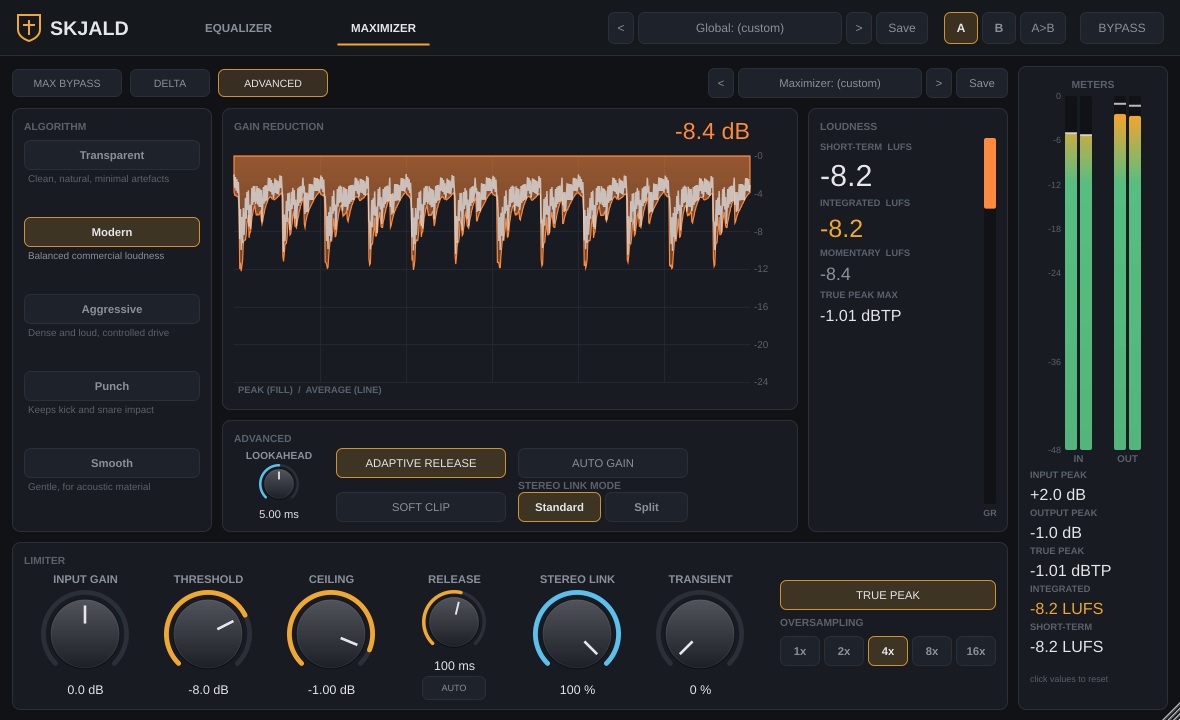
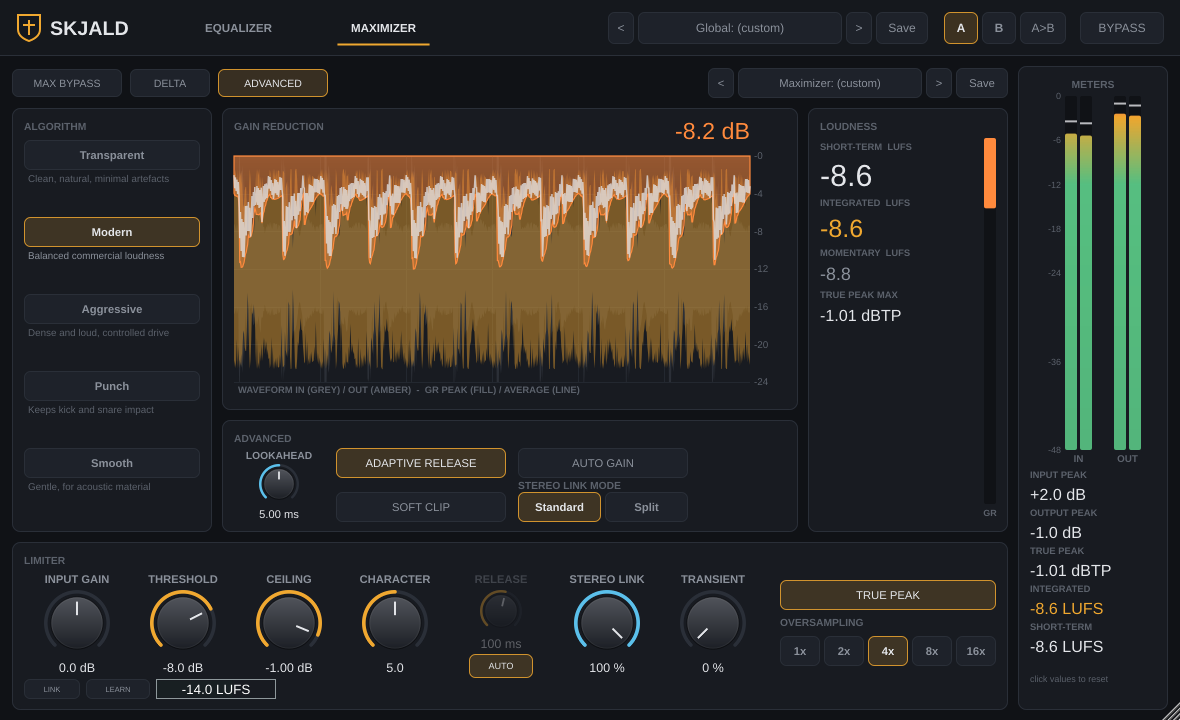
Maximizer: ARC-style auto release (default on), scrolling waveform display, fixes
Claude-Session: https://claude.ai/code/session_018RdDbPC5mLvRAxPkkbgNdd

diff --git a/Source/UI/Maximizer/MaximizerTab.cpp b/Source/UI/Maximizer/MaximizerTab.cpp
@@ -21,16 +21,19 @@ void GRHistoryDisplay::refresh (double dt)
         {
             const auto& pt = scratch[(size_t) i];
             colPeak = juce::jmax (colPeak, pt.peakDb);
+            colIn = juce::jmax (colIn, pt.inputPeak);
+            colOut = juce::jmax (colOut, pt.outputPeak);
             avgSum += (double) pt.averageDb * pt.numSamples;
             accumulated += pt.numSamples;
             currentPeak = pt.peakDb;
             while (accumulated >= samplesPerColumn)
             {
-                columns[(size_t) writePos] = { colPeak, (float) (avgSum / juce::jmax (1.0, accumulated)) };
+                columns[(size_t) writePos] = { colPeak, (float) (avgSum / juce::jmax (1.0, accumulated)), colIn, colOut };
                 writePos = (writePos + 1) % kColumns;
                 accumulated -= samplesPerColumn;
                 avgSum = 0.0;
                 colPeak = 0.0f;
+                colIn = colOut = 0.0f;
             }
         }
     }
@@ -73,6 +76,35 @@ void GRHistoryDisplay::paint (juce::Graphics& g)
         g.drawVerticalLine ((int) x, area.getY(), area.getBottom());
     }
 
+    // scrolling waveform behind the gain-reduction trace (as in iZotope's Maximizer): the signal going in
+    // (grey) and coming out (accent), as mirrored peak envelopes, 0 dBFS = full height
+    {
+        const float mid = area.getCentreY(), half = area.getHeight() * 0.5f;
+        auto envelope = [&] (bool output)
+        {
+            juce::Path p;
+            p.startNewSubPath (area.getX(), mid);
+            for (int i = 0; i < kColumns; ++i)
+            {
+                const auto& c = columns[(size_t) ((writePos + i) % kColumns)];
+                const float x = area.getX() + area.getWidth() * (float) i / (float) (kColumns - 1);
+                p.lineTo (x, mid - half * juce::jlimit (0.0f, 1.0f, output ? c.outPeak : c.inPeak));
+            }
+            for (int i = kColumns - 1; i >= 0; --i)
+            {
+                const auto& c = columns[(size_t) ((writePos + i) % kColumns)];
+                const float x = area.getX() + area.getWidth() * (float) i / (float) (kColumns - 1);
+                p.lineTo (x, mid + half * juce::jlimit (0.0f, 1.0f, output ? c.outPeak : c.inPeak));
+            }
+            p.closeSubPath();
+            return p;
+        };
+        g.setColour (textFaint.withAlpha (0.30f));
+        g.fillPath (envelope (false));
+        g.setColour (accent.withAlpha (0.45f));
+        g.fillPath (envelope (true));
+    }
+
     // history (newest on the right)
     juce::Path peakPath, avgPath;
     peakPath.startNewSubPath (area.getX(), area.getY());
@@ -103,7 +135,7 @@ void GRHistoryDisplay::paint (juce::Graphics& g)
     g.drawText ((displayPeak > 0.05f ? "-" : "") + juce::String (displayPeak, 1) + " dB", ro, juce::Justification::centredRight);
     g.setFont (font (10.5f, true));
     g.setColour (textFaint);
-    g.drawText ("PEAK (FILL)  /  AVERAGE (LINE)", getLocalBounds().reduced (16, 12).removeFromBottom (16), juce::Justification::centredLeft);
+    g.drawText ("WAVEFORM IN (GREY) / OUT (AMBER)  -  GR PEAK (FILL) / AVERAGE (LINE)", getLocalBounds().reduced (16, 12).removeFromBottom (16), juce::Justification::centredLeft);
 }
 
 // ---- LoudnessPanel ----------------------------------------------------------------------
@@ -220,7 +252,6 @@ MaximizerTab::MaximizerTab (SkjaldAudioProcessor& p)
     thresholdLink.setTooltip ("Link: moving the threshold moves the ceiling by the same amount");
     learnButton.setTooltip ("Learn Threshold: press, play the loudest part, press again. Sets the threshold for the target loudness");
     targetSlider.setSliderStyle (juce::Slider::LinearBar);
-    targetSlider.setTextValueSuffix (" LUFS");
     targetSlider.setTooltip ("Target loudness (LUFS) used by Learn");
     targetAttachment = std::make_unique<APVTS::SliderAttachment> (p.getState(), params::targetLufs, targetSlider);
 
@@ -380,6 +411,8 @@ void MaximizerTab::refresh (double dt)
 {
     grDisplay.refresh (dt);
     loudness.refresh (dt);
+    // with Auto Release the time is chosen by the limiter: dim the manual knob
+    release.setAlpha (processor.getState().getRawParameterValue (params::autoRelease)->load() > 0.5f ? 0.35f : 1.0f);
     presetBrowser.refresh();
 }
 

diff --git a/Source/DSP/Maximizer/LimiterCore.cpp b/Source/DSP/Maximizer/LimiterCore.cpp
@@ -66,7 +66,7 @@ void LimiterCore::reset() noexcept
         if (useDetector)
             c.detector.reset();
         c.samplePeakAlign.reset();
-        c.release1 = c.release2 = c.lastHeld = 1.0f;
+        c.release1 = c.release2 = c.lastHeld = c.arcBase = 1.0f;
     }
     ceilingAlign.reset (1.0f);
     headroomToDetector.reset (1.0f);
@@ -151,6 +151,12 @@ void LimiterCore::updateControl (const CoreSettings& s) noexcept
     const double tau2 = s.releaseStages >= 2 ? tau * 0.6 : lf * tau * 0.6;
     releaseCoeff1 = (float) onePoleCoeff (tau1, osRate);
     releaseCoeff2 = (float) onePoleCoeff (tau2, osRate);
+    arcActive = s.arcBaseReleaseMs > 0.0f;
+    if (arcActive)
+    {
+        arcAttackCoeff = (float) onePoleCoeff (std::max (1.0f, s.arcBaseAttackMs) * 0.001, osRate);
+        arcReleaseCoeff = (float) onePoleCoeff (s.arcBaseReleaseMs * 0.001, osRate);
+    }
 
     // Bounded clipping is audible on sustained material and harmless on isolated peaks: shrink
     // the allowed overshoot when the demand for gain reduction is sustained.
@@ -321,7 +327,10 @@ void LimiterCore::process (float* const* io, int numChannels, int numSamples, co
             // Each stage stays <= its input, so the envelope never exceeds the held minimum.
             st.release1 = held < st.release1 ? held : held + (st.release1 - held) * releaseCoeff1;
             st.release2 = st.release1 < st.release2 ? st.release1 : st.release1 + (st.release2 - st.release1) * releaseCoeff2;
-            const float env = st.release2;
+            // slow base envelope (smoothed towards the held gain both ways, so it tracks the average
+            // reduction); the applied envelope is never above the fast release, so the ceiling holds
+            st.arcBase = held + (st.arcBase - held) * (held < st.arcBase ? arcAttackCoeff : arcReleaseCoeff);
+            const float env = arcActive ? std::min (st.release2, st.arcBase) : st.release2;
             intervalMinEnv = std::min (intervalMinEnv, env);
 
             if (boxesMoving)

diff --git a/Source/DSP/Maximizer/LimiterCore.h b/Source/DSP/Maximizer/LimiterCore.h
@@ -37,6 +37,14 @@ struct CoreSettings
     // bass, the release is stretched and floored so the gain cannot follow the bass waveform.
     float lfReleaseFactor = 2.5f;
     float lfReleaseFloorMs = 60.0f;
+
+    // Auto release (ARC style, after Waves): besides the fast release envelope there is a slow "base"
+    // envelope that follows the average gain reduction (the RMS-like, sustained part). The gain is the
+    // lower of the two, so a peak that goes beyond the sustained reduction recovers quickly *down to
+    // the base*, while the base itself moves slowly. Sparse peaks leave the base near 0 dB (fast, clean
+    // recovery); dense material keeps a steady base (no pumping). 0 disables the base envelope.
+    float arcBaseAttackMs = 0.0f;
+    float arcBaseReleaseMs = 0.0f;
 };
 
 /** Feed-forward lookahead peak limiter that runs at the oversampled rate.
@@ -110,7 +118,7 @@ private:
         TruePeakDetector detector;  // only used when the oversampling factor is < 8
         DelayLine<float> samplePeakAlign;
         std::vector<float> peaks;
-        float release1 = 1.0f, release2 = 1.0f, lastHeld = 1.0f;
+        float release1 = 1.0f, release2 = 1.0f, lastHeld = 1.0f, arcBase = 1.0f;
     };
     std::array<Channel, kMaxChannels> ch;
     int ringSize = 1;
@@ -128,7 +136,8 @@ private:
     float clipScale = 1.0f;               // shrinks the clip depth under sustained heavy limiting
 
     // control-rate state
-    float releaseCoeff1 = 0.999f, releaseCoeff2 = 0.999f;
+    float releaseCoeff1 = 0.999f, releaseCoeff2 = 0.999f, arcAttackCoeff = 0.0f, arcReleaseCoeff = 0.0f;
+    bool arcActive = false;
     float intervalMinEnv = 1.0f, intervalMinHeld = 1.0f;
     double demandAverageDb = 0.0, avgCoeff = 0.0;
 

diff --git a/Tests/DSP/MaximizerFeatureTests.cpp b/Tests/DSP/MaximizerFeatureTests.cpp
@@ -77,6 +77,39 @@ TEST_CASE ("Maximizer", "Release time controls recovery")
     CHECK (rs > 4.0 * rf);
 }
 
+TEST_CASE ("Maximizer", "Auto release (ARC): isolated peaks recover fast, ceiling holds")
+{
+    const double fs = 48000.0;
+    auto autoP = base();
+    autoP.max.autoRelease = true;
+    const double ra = recoveryMs (autoP, fs);
+    auto slow = base();
+    slow.max.releaseMs = 400.0f;
+    const double rs = recoveryMs (slow, fs);
+    info ("isolated burst recovery: auto %.1f ms, manual 400 ms release %.1f ms", ra, rs);
+    CHECK (ra < 150.0);
+    CHECK (ra < 0.25 * rs);
+}
+
+TEST_CASE ("Maximizer", "Auto release (ARC): dense material is louder than a slow manual release and never over the ceiling")
+{
+    const double fs = 44100.0;
+    const auto mix = syntheticMix ((int) (fs * 10), fs, 1.0, 21);
+    auto autoP = base (LimiterMode::Modern);
+    autoP.max.thresholdDb = -10.0f;
+    autoP.max.autoRelease = true;
+    auto slow = autoP;
+    slow.max.autoRelease = false;
+    slow.max.releaseMs = 250.0f;
+    MasteringEngine ea, es;
+    run (autoP, mix, fs, &ea);
+    run (slow, mix, fs, &es);
+    const double la = ea.getOutputLoudness().getIntegrated(), ls = es.getOutputLoudness().getIntegrated();
+    info ("integrated loudness: auto %.2f LUFS, manual 250 ms %.2f LUFS", la, ls);
+    CHECK (la > ls);
+    CHECK_LE (toDb (ea.getOutputTruePeakMeter().getMaxPeak()), -1.0 + 0.01);
+}
+
 TEST_CASE ("Maximizer", "Adaptive release: short peaks recover faster than the manual setting")
 {
     const double fs = 48000.0;

diff --git a/Source/Engine/MasteringEngine.cpp b/Source/Engine/MasteringEngine.cpp
@@ -61,6 +61,11 @@ void MasteringEngine::process (float* const* io, int numChannels, int numSamples
         const float* chunkConst[kMaxChannels] { chunk[0], chunk[1] };
 
         inputPeak.process (chunkConst, numChannels, n);
+        float inPk = 0.0f;
+        if (tap != nullptr)
+            for (int c = 0; c < numChannels; ++c)
+                for (int i = 0; i < n; ++i)
+                    inPk = std::max (inPk, std::abs (chunk[c][i]));
         inputLoudness.process (chunkConst, numChannels, n);
         for (int c = 0; c < numChannels; ++c)
             std::copy (chunk[c], chunk[c] + n, inputCopy[(size_t) c].begin());
@@ -99,7 +104,14 @@ void MasteringEngine::process (float* const* io, int numChannels, int numSamples
         grAvgDb.store (grA, std::memory_order_relaxed);
         agcDb.store (maximizer.getAutoGainDb(), std::memory_order_relaxed);
         if (tap != nullptr)
+        {
+            float outPk = 0.0f;
+            for (int c = 0; c < numChannels; ++c)
+                for (int i = 0; i < n; ++i)
+                    outPk = std::max (outPk, std::abs (chunk[c][i]));
+            tap->pushLevels (inPk, outPk);
             tap->pushGainReduction (grP, grA);
+        }
     }
 }
 

diff --git a/Source/Plugin/Parameters.cpp b/Source/Plugin/Parameters.cpp
@@ -118,7 +118,7 @@ Layout createLayout()
                                                 Attributes().withLabel ("dBTP").withStringFromValueFunction ([] (float v, int) { return juce::String (v, 2) + " dB"; })));
     mx->addChild (std::make_unique<FloatParam> (id (release), "Release", logRange (5.0f, 1000.0f), 100.0f,
                                                 Attributes().withLabel ("ms").withStringFromValueFunction (formatMs)));
-    mx->addChild (std::make_unique<BoolParam> (id (autoRelease), "Auto Release", false));
+    mx->addChild (std::make_unique<BoolParam> (id (autoRelease), "Auto Release", true));
     mx->addChild (std::make_unique<FloatParam> (id (character), "Character", juce::NormalisableRange<float> (0.0f, 10.0f, 0.01f), 5.0f,
                                                 Attributes().withStringFromValueFunction ([] (float v, int) { return juce::String (v, 1); })));
     mx->addChild (std::make_unique<BoolParam> (id (thresholdLink), "Threshold-Ceiling Link", false));

diff --git a/Source/DSP/Maximizer/Maximizer.cpp b/Source/DSP/Maximizer/Maximizer.cpp
@@ -157,6 +157,14 @@ CoreSettings Maximizer::buildCoreSettings() const noexcept
     s.kneeDb = modeCfg.kneeDb;
     s.releaseStages = modeCfg.releaseStages;
     s.releaseMs = std::clamp ((params.autoRelease ? modeCfg.autoReleaseMs : params.releaseMs) * speed, 1.0f, 5000.0f);
+    if (params.autoRelease)
+    {
+        // ARC-style auto release: a fast envelope for peaks above the sustained reduction and a slow base
+        // envelope that follows the average reduction (see CoreSettings)
+        s.releaseMs = std::clamp (modeCfg.autoReleaseMs * kArcFastShare * speed, 2.0f, 5000.0f);
+        s.arcBaseAttackMs = kArcBaseAttackMs * std::sqrt (speed);
+        s.arcBaseReleaseMs = kArcBaseReleaseMs * modeCfg.releaseMultiplier * speed;
+    }
     s.adaptiveRelease = params.adaptiveRelease || params.autoRelease;
     s.adaptiveSlowFactor = modeCfg.adaptiveSlowFactor;
     s.adaptiveFastFactor = modeCfg.adaptiveFastFactor;

diff --git a/Source/Plugin/AudioTaps.h b/Source/Plugin/AudioTaps.h
@@ -55,6 +55,7 @@ struct GainReductionPoint
     float peakDb = 0.0f;
     float averageDb = 0.0f;
     int numSamples = 0;
+    float inputPeak = 0.0f, outputPeak = 0.0f; // linear sample peaks of the same block (waveform display)
 };
 
 class GainReductionFifo
@@ -99,9 +100,15 @@ public:
             post.pushMono (ch, numCh, n);
     }
 
+    void pushLevels (float inputPeak, float outputPeak) noexcept override
+    {
+        lastIn = inputPeak;
+        lastOut = outputPeak;
+    }
+
     void pushGainReduction (float peakDb, float avgDb) noexcept override
     {
-        gr.push ({ peakDb, avgDb, lastBlock });
+        gr.push ({ peakDb, avgDb, lastBlock, lastIn, lastOut });
     }
 
     SampleFifo pre, post;
@@ -110,6 +117,7 @@ public:
 
 private:
     int lastBlock = 0;
+    float lastIn = 0.0f, lastOut = 0.0f;
 };
 
 } // namespace skjald

diff --git a/Source/Engine/MasteringEngine.h b/Source/Engine/MasteringEngine.h
@@ -27,6 +27,8 @@ struct EngineTap
     virtual void pushPreEQ (const float* const* channels, int numChannels, int numSamples) noexcept { (void) channels; (void) numChannels; (void) numSamples; }
     virtual void pushPostEQ (const float* const* channels, int numChannels, int numSamples) noexcept { (void) channels; (void) numChannels; (void) numSamples; }
     virtual void pushGainReduction (float peakDb, float averageDb) noexcept { (void) peakDb; (void) averageDb; }
+    /** Sample peaks (linear, over all channels) of the chunk that entered and left the engine. */
+    virtual void pushLevels (float inputPeak, float outputPeak) noexcept { (void) inputPeak; (void) outputPeak; }
 };
 
 /** Complete processing chain: INPUT -> EQUALIZER -> MAXIMIZER -> OUTPUT, plus metering.

diff --git a/Source/UI/Maximizer/MaximizerTab.h b/Source/UI/Maximizer/MaximizerTab.h
@@ -21,12 +21,13 @@ public:
 private:
     static constexpr int kColumns = 720;
     static constexpr double kHistorySeconds = 6.0;
-    struct Column { float peak = 0.0f, avg = 0.0f; };
+    struct Column { float peak = 0.0f, avg = 0.0f, inPeak = 0.0f, outPeak = 0.0f; };
 
     SkjaldAudioProcessor& processor;
     std::array<Column, kColumns> columns {};
     int writePos = 0;
     double accumulated = 0.0, avgSum = 0.0;
+    float colIn = 0.0f, colOut = 0.0f;
     float colPeak = 0.0f, currentPeak = 0.0f, displayPeak = 0.0f, rangeDb = 6.0f;
     std::array<GainReductionPoint, 4096> scratch {};
 };

diff --git a/Source/DSP/Maximizer/Maximizer.h b/Source/DSP/Maximizer/Maximizer.h
@@ -56,6 +56,7 @@ public:
     static constexpr int kNumPaths = 5;
     static constexpr double kMaxLookaheadMs = 10.0;
     static constexpr float kTruePeakCoreMarginDb = 0.03f;
+    static constexpr float kArcFastShare = 0.4f, kArcBaseAttackMs = 60.0f, kArcBaseReleaseMs = 300.0f;
     static constexpr float kTruePeakGuardMarginDb = 0.01f;
 
     void prepare (double sampleRate, int maxBlockSize);

diff --git a/docs/TECHNICAL.md b/docs/TECHNICAL.md
@@ -152,6 +152,9 @@ Reworked after listening tests showed audible distortion and a behaviour unlike 
 - Test recalibration: the transient-preservation tests now require a +1.0 dB margin, because the new detector separates transients more cleanly.
 - Measured THD+N at 6 dB drive: Modern -108 dB IMD, Aggressive -100 dB. At 12 dB drive Aggressive is about -45 dB (about 0.5 %), the deliberate limit of that mode. Previously it was -28 dB.
 
+- **Auto release (ARC style).** Researched against Waves' ARC (analyses peak and RMS of the programme: fast release for peaks, slow for the overall level) and iZotope's IRC (release chosen by the limiter, only a Character speed control). Auto Release is on by default and the Release knob dims while it is on. With Auto on, the core keeps two envelopes: the usual fast release (40 % of the mode's auto time, scaled by Character) and a slow *base* envelope that follows the average gain reduction (60 ms attack, 300 ms release times the mode multiplier). The applied envelope is the lower of the two, so a peak beyond the sustained reduction recovers quickly down to the base while the base itself moves slowly. The ceiling guarantee is unchanged (the applied envelope is never above the fast release). Measured on a synthetic drum/bass mix at the same threshold: Auto is about 0.8 dB louder than the old manual 100 ms default with equal gain modulation, and 4 LU louder than a 250 ms manual release on dense material. Bass distortion at 12 dB drive is -59 to -71 dB THD+N (Modern, Punch) with Auto.
+- **Waveform display.** The gain-reduction panel also draws a scrolling waveform (6 s): input (grey) and output (amber) peak envelopes behind the gain-reduction trace. The engine reports the block peaks through `EngineTap::pushLevels`.
+- **Tried and rejected: 3-band limiting.** A band-split limiter (150 Hz / 3 kHz, bands limited to shares of the ceiling, then a final limiter) was built and measured. A steady 1 kHz tone under kicks was ducked by up to 9 dB, against 1.2 dB for the single-band limiter, because the bands' shares add up to more than the ceiling and the final limiter cut everything again. iZotope's IRC IV uses dozens of bands plus a psychoacoustic model, which is a different scale of work. Not shipped.
 - **Threshold-Ceiling Link (LINK).** UI-level: while on, a user edit of the threshold moves the ceiling by the same amount (clamped). Preset loads and automation do not drag the ceiling. Persisted as the `thresholdLink` parameter.
 - **Learn Threshold / Target LUFS.** LEARN starts measuring input integrated loudness and peak; APPLY sets the threshold for the Target Loudness (`targetLufs`, default -14). `Engine/LearnThreshold.h` solves input LUFS + drive - loss(over) = target, where the loss of loudness caused by limiting is an empirical table from the Modern mode. Tested on two programme levels at -16/-14/-12 LUFS targets: output within 0.1 LU. Targets that need more than 30 dB of drive clamp at -30 dB. Other modes will deviate somewhat since the table was fitted on Modern.
 
